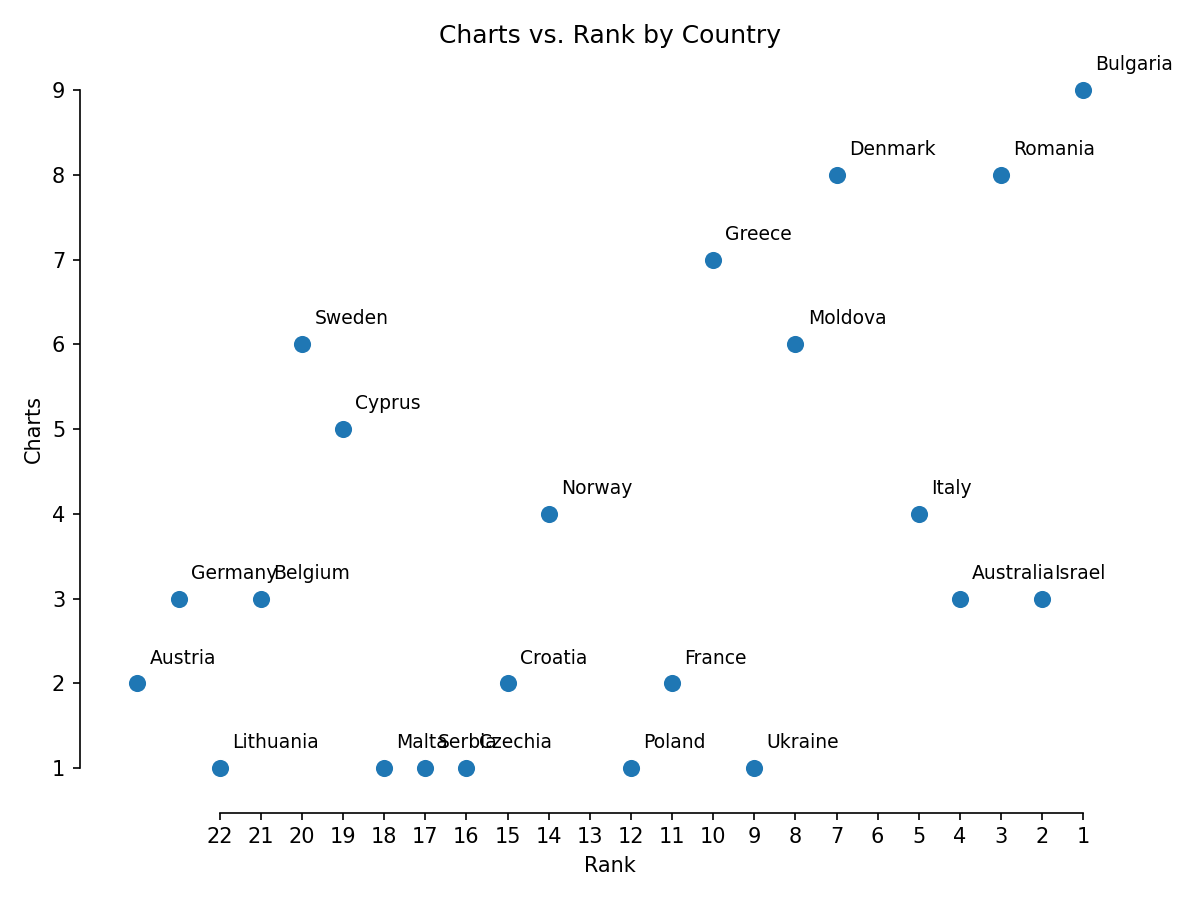
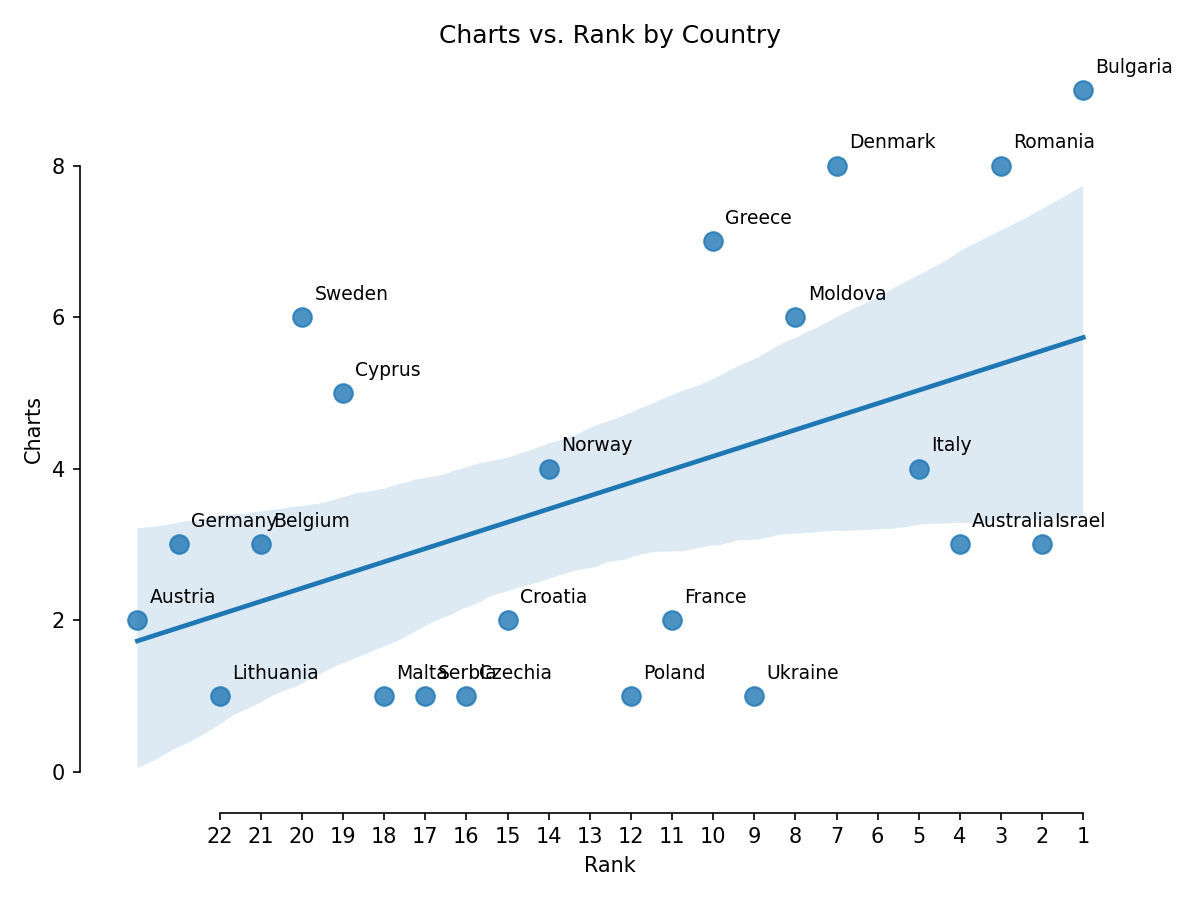
Add regression line to scatter plot

diff --git a/generate_charts.py b/generate_charts.py
@@ -33,7 +33,7 @@ def save_scatter(cross_table, results_file, plots_dir, suffix):
     merged["Rank"] = len(merged) - merged["Place"] + 1
 
     fig, ax = plt.subplots(figsize=(8, 6))
-    sns.scatterplot(data=merged, x="Rank", y="Charts", s=80, ax=ax)
+    sns.regplot(data=merged, x="Rank", y="Charts", ax=ax, scatter_kws={"s": 80})
     for _, row in merged.iterrows():
         ax.text(row["Rank"] + 0.3, row["Charts"] + 0.3, row["Country"], fontsize=9, va="center", ha="left")
     x_range = range(1, len(merged) + 1)